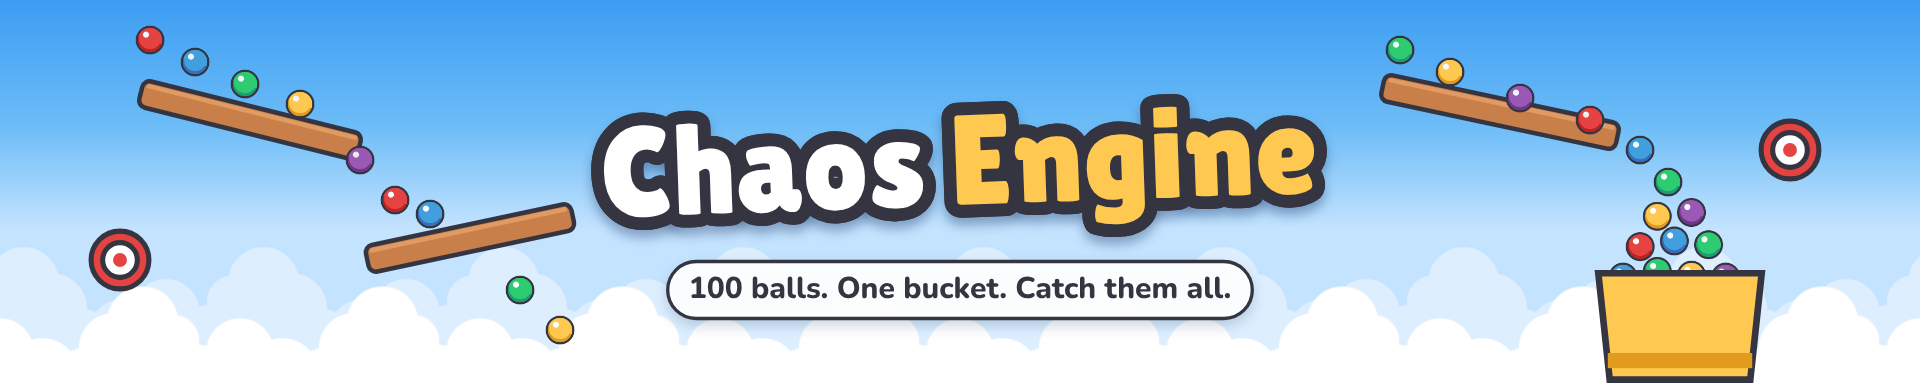
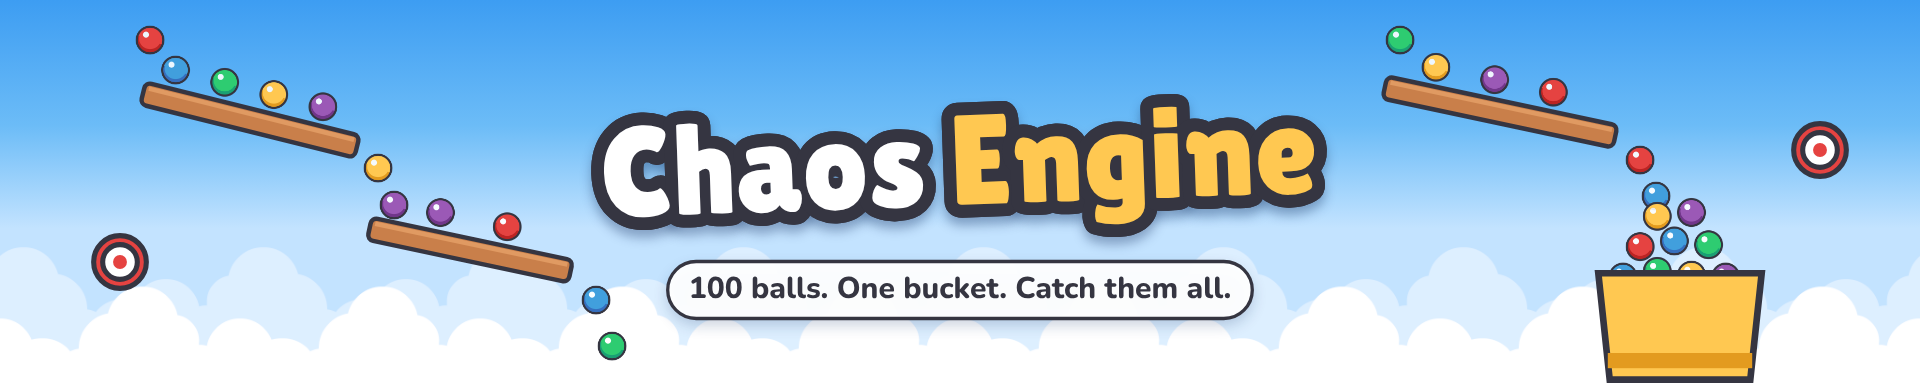
Draw outlines inside each body's real edge so balls rest on the wood
Planks, platforms, bumpers and pegs drew their 3px outline centred on the
physics edge, so resting balls looked sunk into the wood. A count over 75
pours (87,000 steps) found no ball passing through a plank and real overlap
of only 0.3px on average, so the physics is unchanged; only the drawing moves.
Balls are sized so the sprite's visible edge is the physics edge. The brand
images place resting balls on top of their planks.

Claude-Session: https://claude.ai/code/session_01LMNKs4K7r1ACiGB6mFaDTE

diff --git a/dev/brand/brand.ts b/dev/brand/brand.ts
@@ -42,6 +42,26 @@ function ball(c: Ctx, x: number, y: number, r: number, n: number): void {
   c.drawImage(img(BALLS[n % BALLS.length]!), x - r, y - r, r * 2, r * 2);
 }
 
+/**
+ * Where a ball of radius r rests on a plank drawn by plank(): t runs from -1 (left end) to 1
+ * (right end) along its top surface. Keeps every ball touching the wood, never inside it.
+ */
+function onPlank(x: number, y: number, len: number, deg: number, k: number, t: number, r: number): [number, number] {
+  const a = (deg * Math.PI) / 180;
+  const along = (len / 2) * k * t;
+  const up = 9 * k + r;
+  return [x + Math.cos(a) * along + Math.sin(a) * up, y + Math.sin(a) * along - Math.cos(a) * up];
+}
+
+/** A plank with balls resting along it at the given positions (see onPlank). */
+function loadedPlank(c: Ctx, x: number, y: number, len: number, deg: number, k: number, r: number, at: number[], first: number): void {
+  plank(c, x, y, len, deg, k);
+  at.forEach((t, i) => {
+    const [bx, by] = onPlank(x, y, len, deg, k, t, r);
+    ball(c, bx, by, r, first + i);
+  });
+}
+
 /** A plank from the board, in board units (18 thick), scaled by k. */
 function plank(c: Ctx, x: number, y: number, len: number, deg: number, k: number): void {
   c.save();
@@ -158,9 +178,8 @@ const ICON: Brand = {
     sky(c, w, h, 300);
     // A plank tipping the pour into the bucket: the whole game in one picture. Everything sits
     // inside the circle Reddit crops the icon to.
-    plank(c, 178, 150, 108, 16, 1.9);
-    [[118, 92, 0], [176, 109, 1]].forEach(([x, y, n]) => ball(c, x!, y!, 28, n!));
-    catchScene(c, 262, 384, 2.9, []);
+    loadedPlank(c, 172, 146, 108, 16, 1.9, 24, [-0.55, 0.15], 0);
+    catchScene(c, 272, 392, 2.7, []);
   },
 };
 
@@ -170,15 +189,18 @@ const DESKTOP: Brand = {
   h: 384,
   draw(c, w, h) {
     sky(c, w, h, 240);
-    // Left: the chute and a pour bouncing down planks and a bumper.
-    plank(c, 250, 120, 150, 14, 1.5);
-    plank(c, 470, 238, 140, -12, 1.5);
-    bumper(c, 120, 260, 1.7);
-    [[150, 40], [195, 62], [245, 84], [300, 104], [360, 160], [395, 200], [430, 214], [520, 290], [560, 330]].forEach(([x, y], i) => ball(c, x!, y!, 17, i));
+    // Left: a pour rolling down two planks.
+    bumper(c, 120, 262, 1.7);
+    ball(c, 150, 40, 17, 0);
+    loadedPlank(c, 250, 120, 150, 14, 1.5, 17, [-0.75, -0.3, 0.15, 0.6], 1);
+    [[378, 168], [394, 205]].forEach(([x, y], i) => ball(c, x!, y!, 17, i + 3));
+    loadedPlank(c, 470, 250, 140, 12, 1.5, 17, [-0.35, 0.3], 4);
+    [[596, 300], [612, 346]].forEach(([x, y], i) => ball(c, x!, y!, 17, i + 1));
     // Right: the bucket catching them.
-    plank(c, 1500, 112, 160, 12, 1.5);
-    bumper(c, 1790, 150, 1.7);
-    [[1400, 50], [1450, 72], [1520, 98], [1590, 120], [1640, 150], [1668, 182]].forEach(([x, y], i) => ball(c, x!, y!, 17, i + 2));
+    ball(c, 1400, 40, 17, 2);
+    loadedPlank(c, 1500, 112, 160, 12, 1.5, 17, [-0.6, -0.1, 0.4], 3);
+    [[1640, 160], [1656, 196]].forEach(([x, y], i) => ball(c, x!, y!, 17, i));
+    bumper(c, 1820, 150, 1.7);
     catchScene(c, 1680, 334, 1.9, []);
     logoLine(c, w / 2, 205, 128);
     tagline(c, '100 balls. One bucket. Catch them all.', w / 2, 290, 30);
@@ -191,11 +213,13 @@ const MOBILE: Brand = {
   h: 480,
   draw(c, w, h) {
     sky(c, w, h, 280);
-    plank(c, 230, 150, 150, 14, 1.7);
-    bumper(c, 120, 330, 2);
-    [[110, 50], [160, 76], [215, 102], [280, 128], [345, 190], [370, 250], [380, 310]].forEach(([x, y], i) => ball(c, x!, y!, 20, i));
-    plank(c, 1360, 130, 150, 12, 1.7);
-    [[1250, 60], [1310, 86], [1380, 112], [1450, 140], [1480, 190], [1490, 240]].forEach(([x, y], i) => ball(c, x!, y!, 20, i + 2));
+    ball(c, 110, 50, 20, 0);
+    loadedPlank(c, 230, 150, 150, 14, 1.7, 20, [-0.7, -0.2, 0.3], 1);
+    [[372, 214], [386, 262], [394, 312]].forEach(([x, y], i) => ball(c, x!, y!, 20, i + 4));
+    bumper(c, 140, 340, 2);
+    ball(c, 1250, 56, 20, 2);
+    loadedPlank(c, 1360, 130, 150, 12, 1.7, 20, [-0.65, -0.15, 0.35], 3);
+    [[1500, 196], [1508, 246]].forEach(([x, y], i) => ball(c, x!, y!, 20, i));
     catchScene(c, 1430, 424, 2.1, []);
     logo(c, w / 2, 178, 140);
     tagline(c, '100 balls. One bucket. Catch them all.', w / 2, 410, 34);

diff --git a/src/client/pour/draw.ts b/src/client/pour/draw.ts
@@ -4,6 +4,8 @@ import type { Pour } from '../../shared/pour/sim';
 import { BALL_R, H, type Machine, type Piece, W } from '../../shared/pour/types';
 
 export const INK = '#353541';
+/** Half the size a ball's sprite is drawn at: its visible circle is 114/128 of the image, so this puts the visible edge on the physics edge. */
+const BALL_DRAW = (BALL_R * 128) / 114;
 const BALL_LOOKS = ['ball', 'ball_blue', 'ball_green', 'ball_yellow', 'ball_purple'];
 
 const IMG: Record<string, HTMLImageElement> = {};
@@ -40,11 +42,18 @@ function withRot(c: CanvasRenderingContext2D, x: number, y: number, a: number, f
   c.restore();
 }
 
+/**
+ * Outlines are drawn inside each body's real edge (a 3px line inset by half its width), so a
+ * ball resting on a plank touches the ink instead of sinking into it.
+ */
+const EDGE = 1.5;
+
 /** Grass-topped dirt platform. */
 function drawBlock(c: CanvasRenderingContext2D, b: Machine['blocks'][number]): void {
   withRot(c, b.x, b.y, rad(b.a), () => {
-    const { w, h } = b;
-    roundRect(c, -w / 2, -h / 2, w, h, 6);
+    const w = b.w - EDGE * 2;
+    const h = b.h - EDGE * 2;
+    roundRect(c, -w / 2, -h / 2, w, h, 5);
     c.fillStyle = '#ee9366';
     c.fill();
     c.save();
@@ -64,7 +73,7 @@ function drawBlock(c: CanvasRenderingContext2D, b: Machine['blocks'][number]): v
       c.fillRect(-w / 2, -h / 2, w, 3);
     }
     c.restore();
-    roundRect(c, -w / 2, -h / 2, w, h, 6);
+    roundRect(c, -w / 2, -h / 2, w, h, 5);
     c.lineWidth = 3;
     c.strokeStyle = INK;
     c.stroke();
@@ -73,7 +82,7 @@ function drawBlock(c: CanvasRenderingContext2D, b: Machine['blocks'][number]): v
 
 function drawPeg(c: CanvasRenderingContext2D, x: number, y: number): void {
   c.beginPath();
-  c.arc(x, y, 7, 0, Math.PI * 2);
+  c.arc(x, y, 7 - EDGE, 0, Math.PI * 2);
   c.fillStyle = '#b9c2ca';
   c.fill();
   c.lineWidth = 3;
@@ -85,13 +94,15 @@ function drawPeg(c: CanvasRenderingContext2D, x: number, y: number): void {
   c.fill();
 }
 
-export function drawPlank(c: CanvasRenderingContext2D, len: number, th: number): void {
-  roundRect(c, -len / 2, -th / 2, len, th, 5);
+export function drawPlank(c: CanvasRenderingContext2D, fullLen: number, fullTh: number): void {
+  const len = fullLen - EDGE * 2;
+  const th = fullTh - EDGE * 2;
+  roundRect(c, -len / 2, -th / 2, len, th, 4);
   c.fillStyle = '#c97f4a';
   c.fill();
   c.fillStyle = '#e09a62';
   c.fillRect(-len / 2 + 3, -th / 2 + 2, len - 6, 3);
-  roundRect(c, -len / 2, -th / 2, len, th, 5);
+  roundRect(c, -len / 2, -th / 2, len, th, 4);
   c.lineWidth = 3;
   c.strokeStyle = INK;
   c.stroke();
@@ -99,7 +110,7 @@ export function drawPlank(c: CanvasRenderingContext2D, len: number, th: number):
 
 export function drawBumper(c: CanvasRenderingContext2D, x: number, y: number, flash: number, r = 17): void {
   c.beginPath();
-  c.arc(x, y, r + flash * 4, 0, Math.PI * 2);
+  c.arc(x, y, r - EDGE + flash * 4, 0, Math.PI * 2);
   c.fillStyle = flash > 0 ? '#ffd27a' : '#e54341';
   c.fill();
   c.lineWidth = 3;
@@ -271,7 +282,7 @@ export class View {
     if (s.pour) {
       for (const b of s.pour.balls) {
         const im = img(ballLook(b.n));
-        withRot(c, b.position.x, b.position.y, b.angle, () => c.drawImage(im, -BALL_R - 1, -BALL_R - 1, (BALL_R + 1) * 2, (BALL_R + 1) * 2));
+        withRot(c, b.position.x, b.position.y, b.angle, () => c.drawImage(im, -BALL_DRAW, -BALL_DRAW, BALL_DRAW * 2, BALL_DRAW * 2));
       }
     }
     if (s.drag) {
